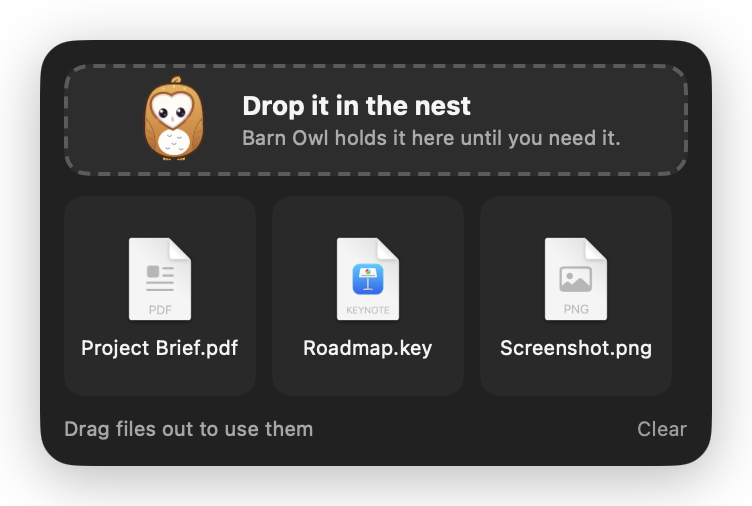
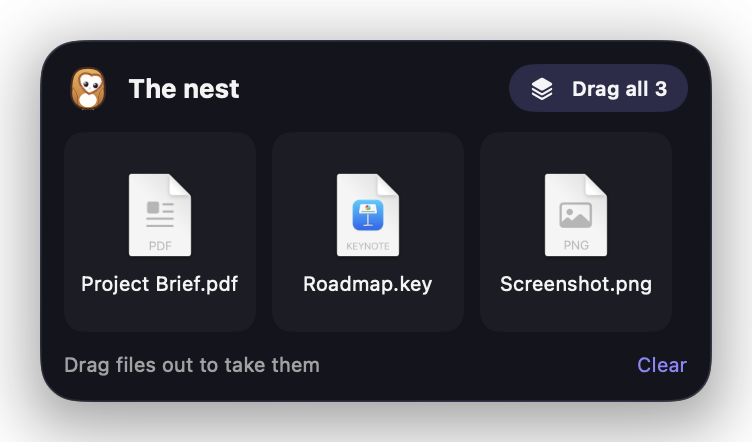
Design, part 5: new screenshots, docs, and links to open the quick panel and the Nest
- Every screenshot in the README re-shot from the new build in demo mode,
  including the missing setup-done.png; stale ones nothing used are gone.
- The user guide describes the new quick panel; the changelog the new look.
- barnowl://quick and barnowl://nest open the quick panel and the Nest.

diff --git a/BarnOwl/App/AppDelegate.swift b/BarnOwl/App/AppDelegate.swift
@@ -184,7 +184,7 @@ final class AppDelegate: NSObject, NSApplicationDelegate {
         }
     }
 
-    /// barnowl://settings, barnowl://setup, barnowl://search, barnowl://bar, barnowl://quick,
+    /// barnowl://settings, barnowl://setup, barnowl://search, barnowl://bar, barnowl://quick, barnowl://nest,
     /// barnowl://open?app=NAME, barnowl://place?app=NAME&row=hidden, barnowl://watch?app=NAME,
     /// barnowl://icon?app=NAME&label=TEXT, barnowl://presenter, barnowl://show, barnowl://toggle,
     /// barnowl://show-all, barnowl://hide, barnowl://keep-awake?minutes=60 (also 2h; 0 or none = indefinitely),
@@ -204,6 +204,7 @@ final class AppDelegate: NSObject, NSApplicationDelegate {
                 model.showSettings(pane)
             case ("search", _): search.show()
             case ("clipboard", _): clipboardPanel.show()
+            case ("nest", _): dropTray.toggleOpen()
             case ("barn", _): barnWindow.show()
             case ("quick", _):
                 quickPanel.toggle(under: (quickPanel.owlItem ?? items.toggle).button?.window?.frame)

diff --git a/docs/user-guide.md b/docs/user-guide.md
@@ -160,13 +160,19 @@ display. Arrange your icons while docked to set up the desk layout.
 ## Keep awake
 
 Click the **owl** in the menu bar (or right-click the arrow) for the quick
-panel. Its eyes are open while your Mac is kept awake.
+panel. Its eyes are open while your Mac is kept awake, and during a timed
+session the time left counts down in big numbers beside it.
 
-- **Set:** keep awake for 15 minutes, 1, 2 or 4 hours, or indefinitely (∞).
-- **Add:** during a timed session, add 15 or 30 minutes, 1 or 2 hours.
-- **⋯** for **until a time**, **while an app is running**, or **until
-  downloads finish**.
-- **Option-click the owl** to start or stop without opening the panel.
+- **One click to start:** 15 minutes, 1, 2 or 4 hours, or until you stop it
+  (∞). While a timer runs, the same row adds 15 or 30 minutes, 1 or 2 hours.
+- **⋯** for **until a time**, **while an app is running**, **until downloads
+  finish**, starting over, and the options **Let Display Sleep** and **Keep
+  Me Available**. When an option is on, a small tag under the buttons says so.
+- **Toggles**, round like Control Center's: Presenting, Dark Mode, Mic,
+  Desktop, Hidden Files and Sleep Screen. Pick which show in Settings →
+  Toggles.
+- **Option-click the owl** to start or stop without opening the panel, or use
+  `barnowl://quick` to open the panel from a script.
 
 During a timed session the owl shows the **time left**, for example "42m" or
 "1:05". You can turn that off in Settings → Keep Awake.
@@ -446,7 +452,7 @@ For Raycast, Alfred, scripts and anything that can open a URL:
 | Link | Does |
 |---|---|
 | `barnowl://show`, `barnowl://hide`, `barnowl://toggle`, `barnowl://show-all` | Hidden icons |
-| `barnowl://bar`, `barnowl://search`, `barnowl://clipboard` | Panels |
+| `barnowl://bar`, `barnowl://quick`, `barnowl://search`, `barnowl://clipboard`, `barnowl://nest`, `barnowl://barn` | Panels |
 | `barnowl://keep-awake?minutes=60` (0 = indefinitely) | Keep awake |
 | `barnowl://keep-awake/extend?minutes=30` | Add time |
 | `barnowl://keep-awake/stop` | Stop |

diff --git a/README.md b/README.md
@@ -98,12 +98,12 @@ example, a briefcase can hold your VPN, mail and chat apps. You can also
 
 ## Keep awake
 
-<img src="docs/images/quick-panel.png" alt="The quick panel: keep awake for 2 h 15 min more, add-time buttons, and toggles" width="380" align="right">
+<img src="docs/images/quick-panel.png" alt="The quick panel: the owl with 2:14:56 left, add-time buttons, rules, round toggles and free disk space" width="380" align="right">
 
 Click the owl for the quick panel. Barn Owl can keep your Mac awake:
 
 - **For a while:** 15 minutes, 1 hour, 2 hours, 4 hours, or until you stop it.
-  The time left counts down next to the owl, and you can add time with one
+  The time left counts down beside the owl, and you can add time with one
   click.
 - **Until a time:** for example, until 17:30.
 - **While an app runs:** say, while your build or a video export runs.
@@ -172,7 +172,7 @@ notch, with the owl watching your pointer. Drop files there to hold them,
 then drag them out later, wherever you need them, one by one or all at once.
 Once you've dropped a file somewhere, it leaves the Nest.
 
-<img src="docs/images/drop-tray.png" alt="The Nest holding three files while the owl watches a file being dragged" width="380">
+<img src="docs/images/drop-tray.png" alt="The Nest holding three files, with a button to drag them all out" width="380">
 
 ## Download
 

diff --git a/CHANGELOG.md b/CHANGELOG.md
@@ -5,6 +5,15 @@ before 1.0, a minor version can change behaviour.
 
 ## Unreleased
 
+- **A fresher look.** Floating panels share one Liquid Glass style with a
+  touch of dusk, and the owl's lavender is the accent everywhere. The quick
+  panel puts the owl and a big countdown first, has one row of time buttons
+  and round Control Center–style toggles. Search groups commands and icons
+  and shows what Return does. Toggles bounce, icons settle onto the Perch,
+  the Nest glows as a file comes near, and the app icon is a layered Liquid
+  Glass icon with dark and tinted versions. Sizes read the same everywhere.
+- Clearing clipboard history or the Nest asks first. New links:
+  `barnowl://quick` and `barnowl://nest`.
 - **The Barn**, for disk space: a storage bar that adds up to the whole
   disk, and Tidy Up, sorted by how safe things are. Safe caches and build
   files go in one click; macOS installers, apps you haven't opened in six
